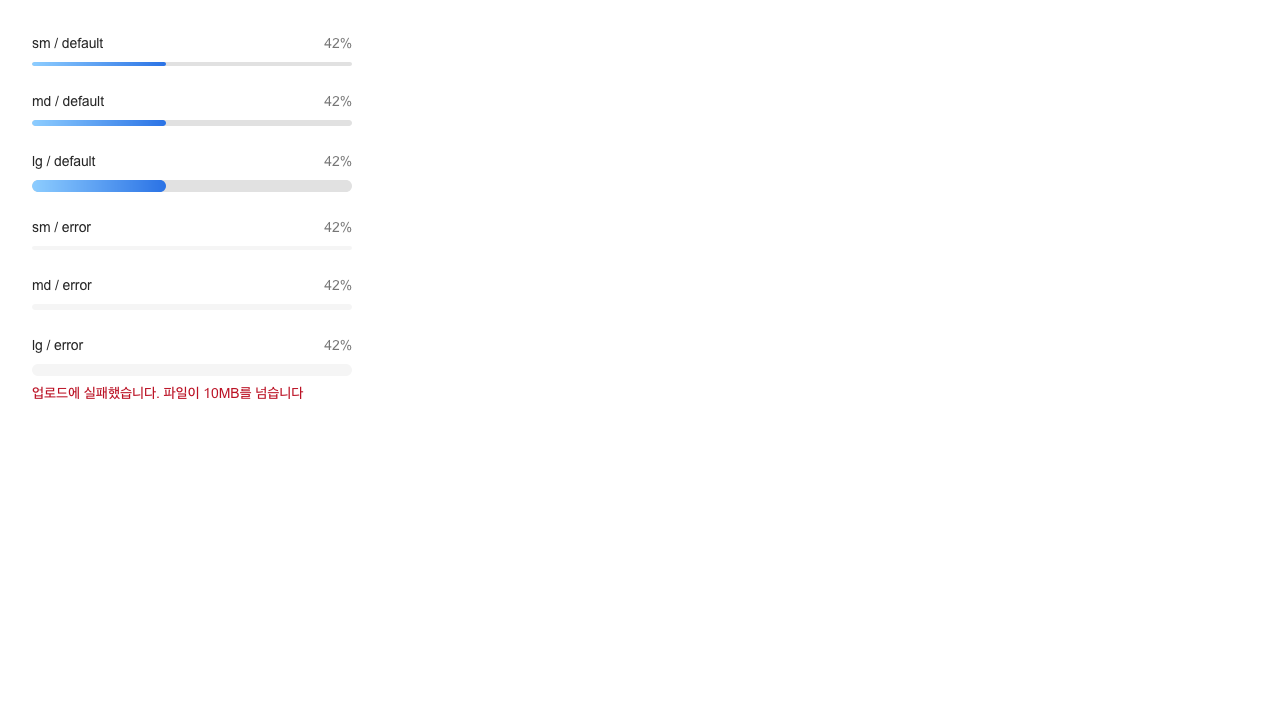
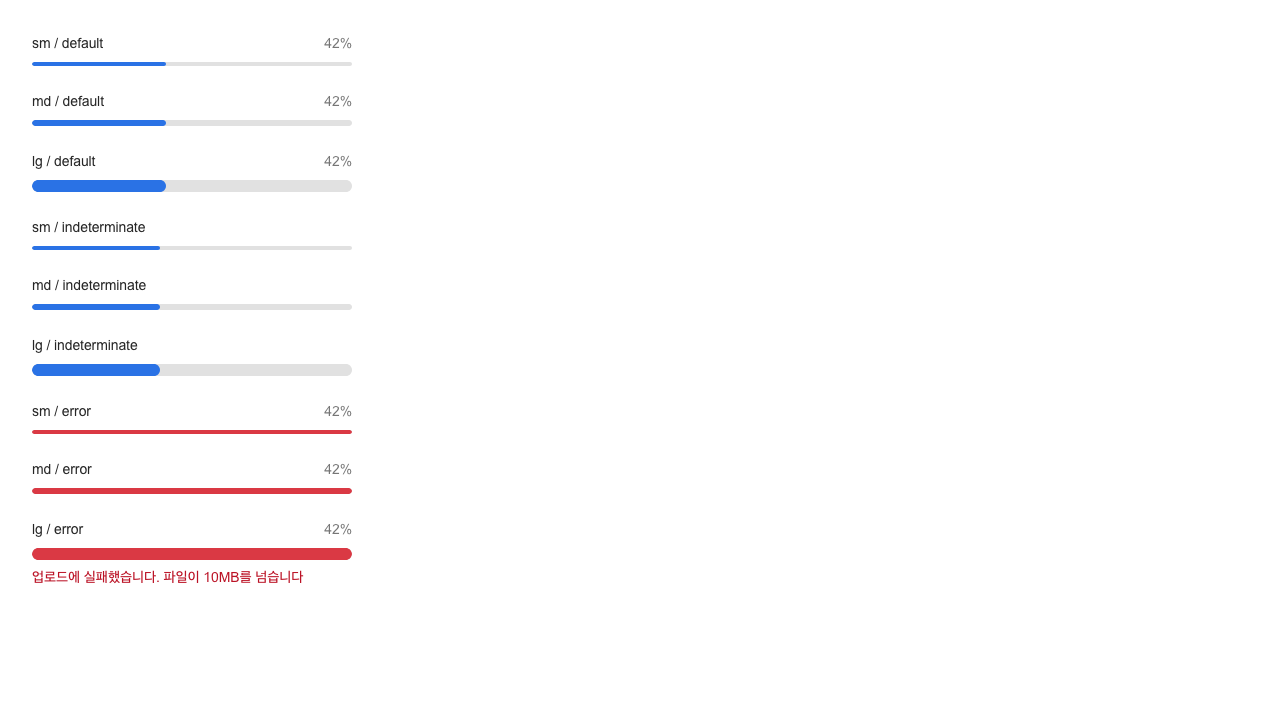
feat(ProgressBar): fill the indicator with semantic colors and match the indeterminate spec
Indicator를 그라데이션에서 semantic 단색으로 바꿨다. default는 background.primary,
error는 background.danger를 쓰고 raw palette 참조를 없앴다. error는 Indicator를
빼는 대신 Track을 danger 색으로 끝까지 채운다.

indeterminate 세그먼트는 시안대로 폭 40%, 등속 1.5s로 맞췄다. sweep 구간을 트랙
기준 좌표로 적고 translateX로 환산해서, 세그먼트 폭을 바꿔도 주기는 안 흔들린다.

라이트 테마 인디케이터↔트랙 대비가 1.30:1에서 3.46:1로 올라 WCAG 1.4.11을
통과한다. 다크는 2.66:1로 여전히 미달이라 트랙 토큰을 따로 봐야 한다.

TestBed에 indeterminate 3행을 추가하고 스냅샷 4종을 재생성했다.

diff --git a/packages/core/src/components/progress-bar/progress-bar.css.ts b/packages/core/src/components/progress-bar/progress-bar.css.ts
@@ -5,15 +5,29 @@ import { componentRecipe, componentStyle } from '~/styles/mixins/layer-style.css
 import { typography } from '~/styles/mixins/typography.css';
 import { vars } from '~/styles/themes.css';
 
+/** Width of the indeterminate segment, as a share of the track. */
+const SEGMENT_WIDTH = 40;
+/**
+ * Where the segment's leading edge starts and ends a sweep, as a share of the track. It starts a
+ * tenth of the track clear of the left edge and ends well past the right, so each crossing is
+ * followed by a rest on an empty track.
+ */
+const SWEEP_FROM = -(SEGMENT_WIDTH + 10);
+const SWEEP_TO = 220;
+/** One sweep. Held constant so `SEGMENT_WIDTH` changes the distance covered, never the tempo. */
+const SWEEP_DURATION = '1.5s';
+
+// `translateX` resolves against the segment's own width, so a track-relative offset has to be
+// divided by that share to survive a change to `SEGMENT_WIDTH`.
+const toSegment = (track: number) => `${Number(((track / SEGMENT_WIDTH) * 100).toFixed(2))}%`;
+
 const sweep = keyframes({
-    '0%': { transform: 'translateX(-100%)' },
-    '100%': { transform: 'translateX(333.33%)' },
+    '0%': { transform: `translateX(${toSegment(SWEEP_FROM)})` },
+    '100%': { transform: `translateX(${toSegment(SWEEP_TO)})` },
 });
 
-/** Width of the indeterminate segment, as a share of the track. */
-const SEGMENT_WIDTH = '30%';
-/** Resting position of the segment when motion is reduced. */
-const SEGMENT_REST = '35%';
+/** Resting position of the segment when motion is reduced: centred in the track. */
+const SEGMENT_REST = `${(100 - SEGMENT_WIDTH) / 2}%`;
 
 export const root = componentStyle({
     display: 'grid',
@@ -93,31 +107,53 @@ export const track = componentRecipe({
          */
         type: {
             default: {},
-            error: { opacity: 0.32 },
+            error: {},
         },
     },
 });
 
-export const indicator = componentStyle({
-    borderRadius: vars.size.borderRadius['900'],
-    backgroundImage: `linear-gradient(to right, ${vars.color.blue['200']}, ${vars.color.background['primary']})`,
-    height: 'inherit',
+export const indicator = componentRecipe({
+    base: {
+        borderRadius: vars.size.borderRadius['900'],
+        backgroundColor: vars.color.background['primary'],
+        height: 'inherit',
 
-    selectors: {
-        '&[data-indeterminate]': {
-            position: 'absolute',
-            insetInlineStart: 0,
-            width: SEGMENT_WIDTH,
-            animation: `${sweep} 1.5s ease-in-out infinite`,
+        selectors: {
+            '&[data-indeterminate]': {
+                position: 'absolute',
+                insetInlineStart: 0,
+                width: `${SEGMENT_WIDTH}%`,
+                animation: `${sweep} ${SWEEP_DURATION} linear infinite`,
+            },
+        },
+
+        '@media': {
+            '(prefers-reduced-motion: reduce)': {
+                selectors: {
+                    '&[data-indeterminate]': {
+                        insetInlineStart: SEGMENT_REST,
+                        animation: 'none',
+                    },
+                },
+            },
         },
     },
 
-    '@media': {
-        '(prefers-reduced-motion: reduce)': {
-            selectors: {
-                '&[data-indeterminate]': {
-                    insetInlineStart: SEGMENT_REST,
-                    animation: 'none',
+    defaultVariants: { type: 'default' },
+    variants: {
+        /**
+         * Tone of the indicator.
+         * @default 'default'
+         */
+        type: {
+            default: {},
+            // base-ui writes `width` inline, so the fill rides on `min-width`, which outranks it
+            // without an `!important`.
+            error: {
+                backgroundColor: vars.color.background['danger'],
+                minWidth: '100%',
+                selectors: {
+                    '&[data-indeterminate]': { insetInlineStart: 0, animation: 'none' },
                 },
             },
         },
@@ -126,3 +162,4 @@ export const indicator = componentStyle({
 
 export type TrackVariants = NonNullable<RecipeVariants<typeof track>>;
 export type DescriptionVariants = NonNullable<RecipeVariants<typeof description>>;
+export type IndicatorVariants = NonNullable<RecipeVariants<typeof indicator>>;

diff --git a/packages/core/src/components/progress-bar/progress-bar.tsx b/packages/core/src/components/progress-bar/progress-bar.tsx
@@ -1,11 +1,12 @@
 'use client';
 
 import type { ReactElement, RefObject } from 'react';
-import { forwardRef, useCallback, useEffect, useId, useMemo, useRef, useState } from 'react';
+import { forwardRef, useCallback, useEffect, useMemo, useRef, useState } from 'react';
 
 import { Progress as BaseProgress } from '@base-ui/react/progress';
 
 import { useRenderElement } from '~/hooks/use-render-element';
+import { useVaporId } from '~/hooks/use-vapor-id';
 import { createContext } from '~/libs/create-context';
 import { cn } from '~/utils/cn';
 import { resolveStyles } from '~/utils/resolve-styles';
@@ -181,7 +182,7 @@ ProgressBarTrackPrimitive.displayName = 'ProgressBar.TrackPrimitive';
  * -----------------------------------------------------------------------------------------------*/
 
 /**
- * The filled portion of the track, omitted entirely when `type` is `'error'` so a failed task never reads as progress. Renders a `<div>` element.
+ * The filled portion of the track, filling it end to end when `type` is `'error'`. Renders a `<div>` element.
  */
 export const ProgressBarIndicatorPrimitive = forwardRef<
     HTMLDivElement,
@@ -190,12 +191,10 @@ export const ProgressBarIndicatorPrimitive = forwardRef<
     const { className, ...componentProps } = resolveStyles(props);
     const { type } = useProgressBarContext();
 
-    if (type === 'error') return null;
-
     return (
         <BaseProgress.Indicator
             ref={ref}
-            className={cn(styles.indicator, className)}
+            className={cn(styles.indicator({ type }), className)}
             {...componentProps}
         />
     );
@@ -254,8 +253,7 @@ export const ProgressBarDescription = forwardRef<HTMLSpanElement, ProgressBarDes
         const { className, render, id: idProp, ...componentProps } = resolveStyles(props);
         const { type, status, registerDescription } = useProgressBarContext();
 
-        const fallbackId = useId();
-        const id = idProp ?? fallbackId;
+        const id = useVaporId(idProp);
 
         useEffect(() => registerDescription(id), [id, registerDescription]);
 
@@ -275,6 +273,7 @@ export const ProgressBarDescription = forwardRef<HTMLSpanElement, ProgressBarDes
         });
     },
 );
+
 ProgressBarDescription.displayName = 'ProgressBar.Description';
 
 /* -----------------------------------------------------------------------------------------------*/

diff --git a/packages/core/src/components/progress-bar/progress-bar.stories.tsx b/packages/core/src/components/progress-bar/progress-bar.stories.tsx
@@ -36,6 +36,9 @@ export const TestBed: StoryObj<typeof ProgressBar.Root> = {
             <Bar label="sm / default" size="sm" value={42} />
             <Bar label="md / default" size="md" value={42} />
             <Bar label="lg / default" size="lg" value={42} />
+            <Bar label="sm / indeterminate" size="sm" value={null} />
+            <Bar label="md / indeterminate" size="md" value={null} />
+            <Bar label="lg / indeterminate" size="lg" value={null} />
             <Bar label="sm / error" size="sm" value={42} type="error" />
             <Bar label="md / error" size="md" value={42} type="error" />
             <Bar

diff --git a/packages/core/src/components/progress-bar/progress-bar.test.tsx b/packages/core/src/components/progress-bar/progress-bar.test.tsx
@@ -299,11 +299,10 @@ describe('<ProgressBar />', () => {
     });
 
     describe('type="error"', () => {
-        it('should render no indicator', () => {
+        it('should fill the whole track with the indicator', () => {
             const { container } = render(<ProgressBarTest value={42} type="error" />);
 
-            expect(getTrack(container)).toBeInTheDocument();
-            expect(getIndicator(container)).toBeNull();
+            expect(getIndicator(container)!.className).toMatch(/type_error/);
         });
 
         it('should mark the track with the error variant', () => {
